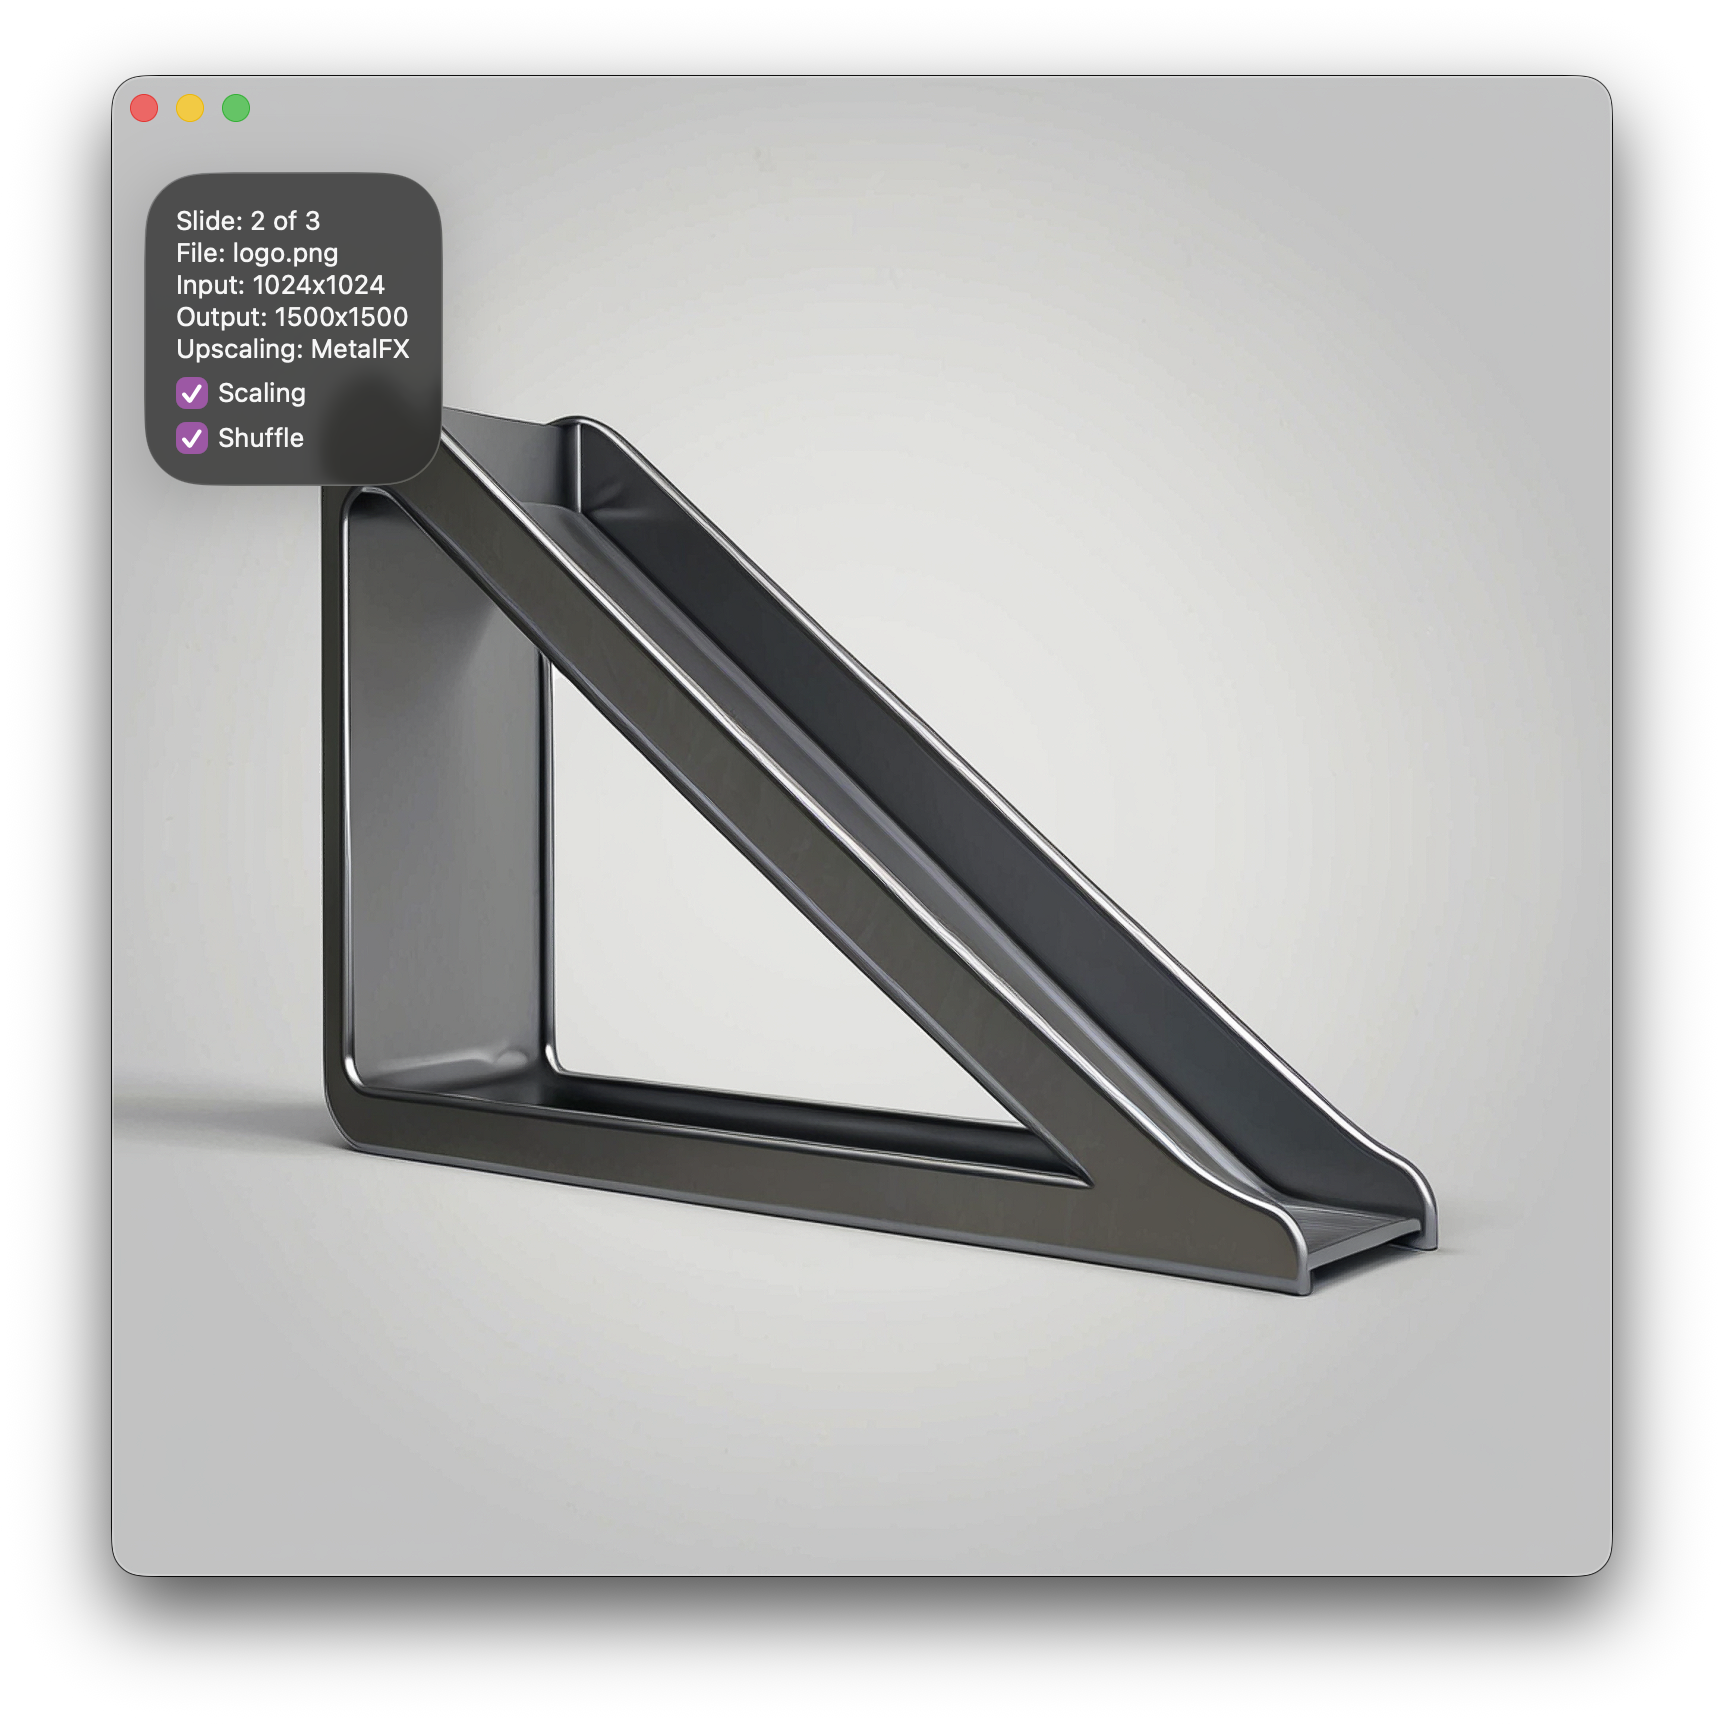
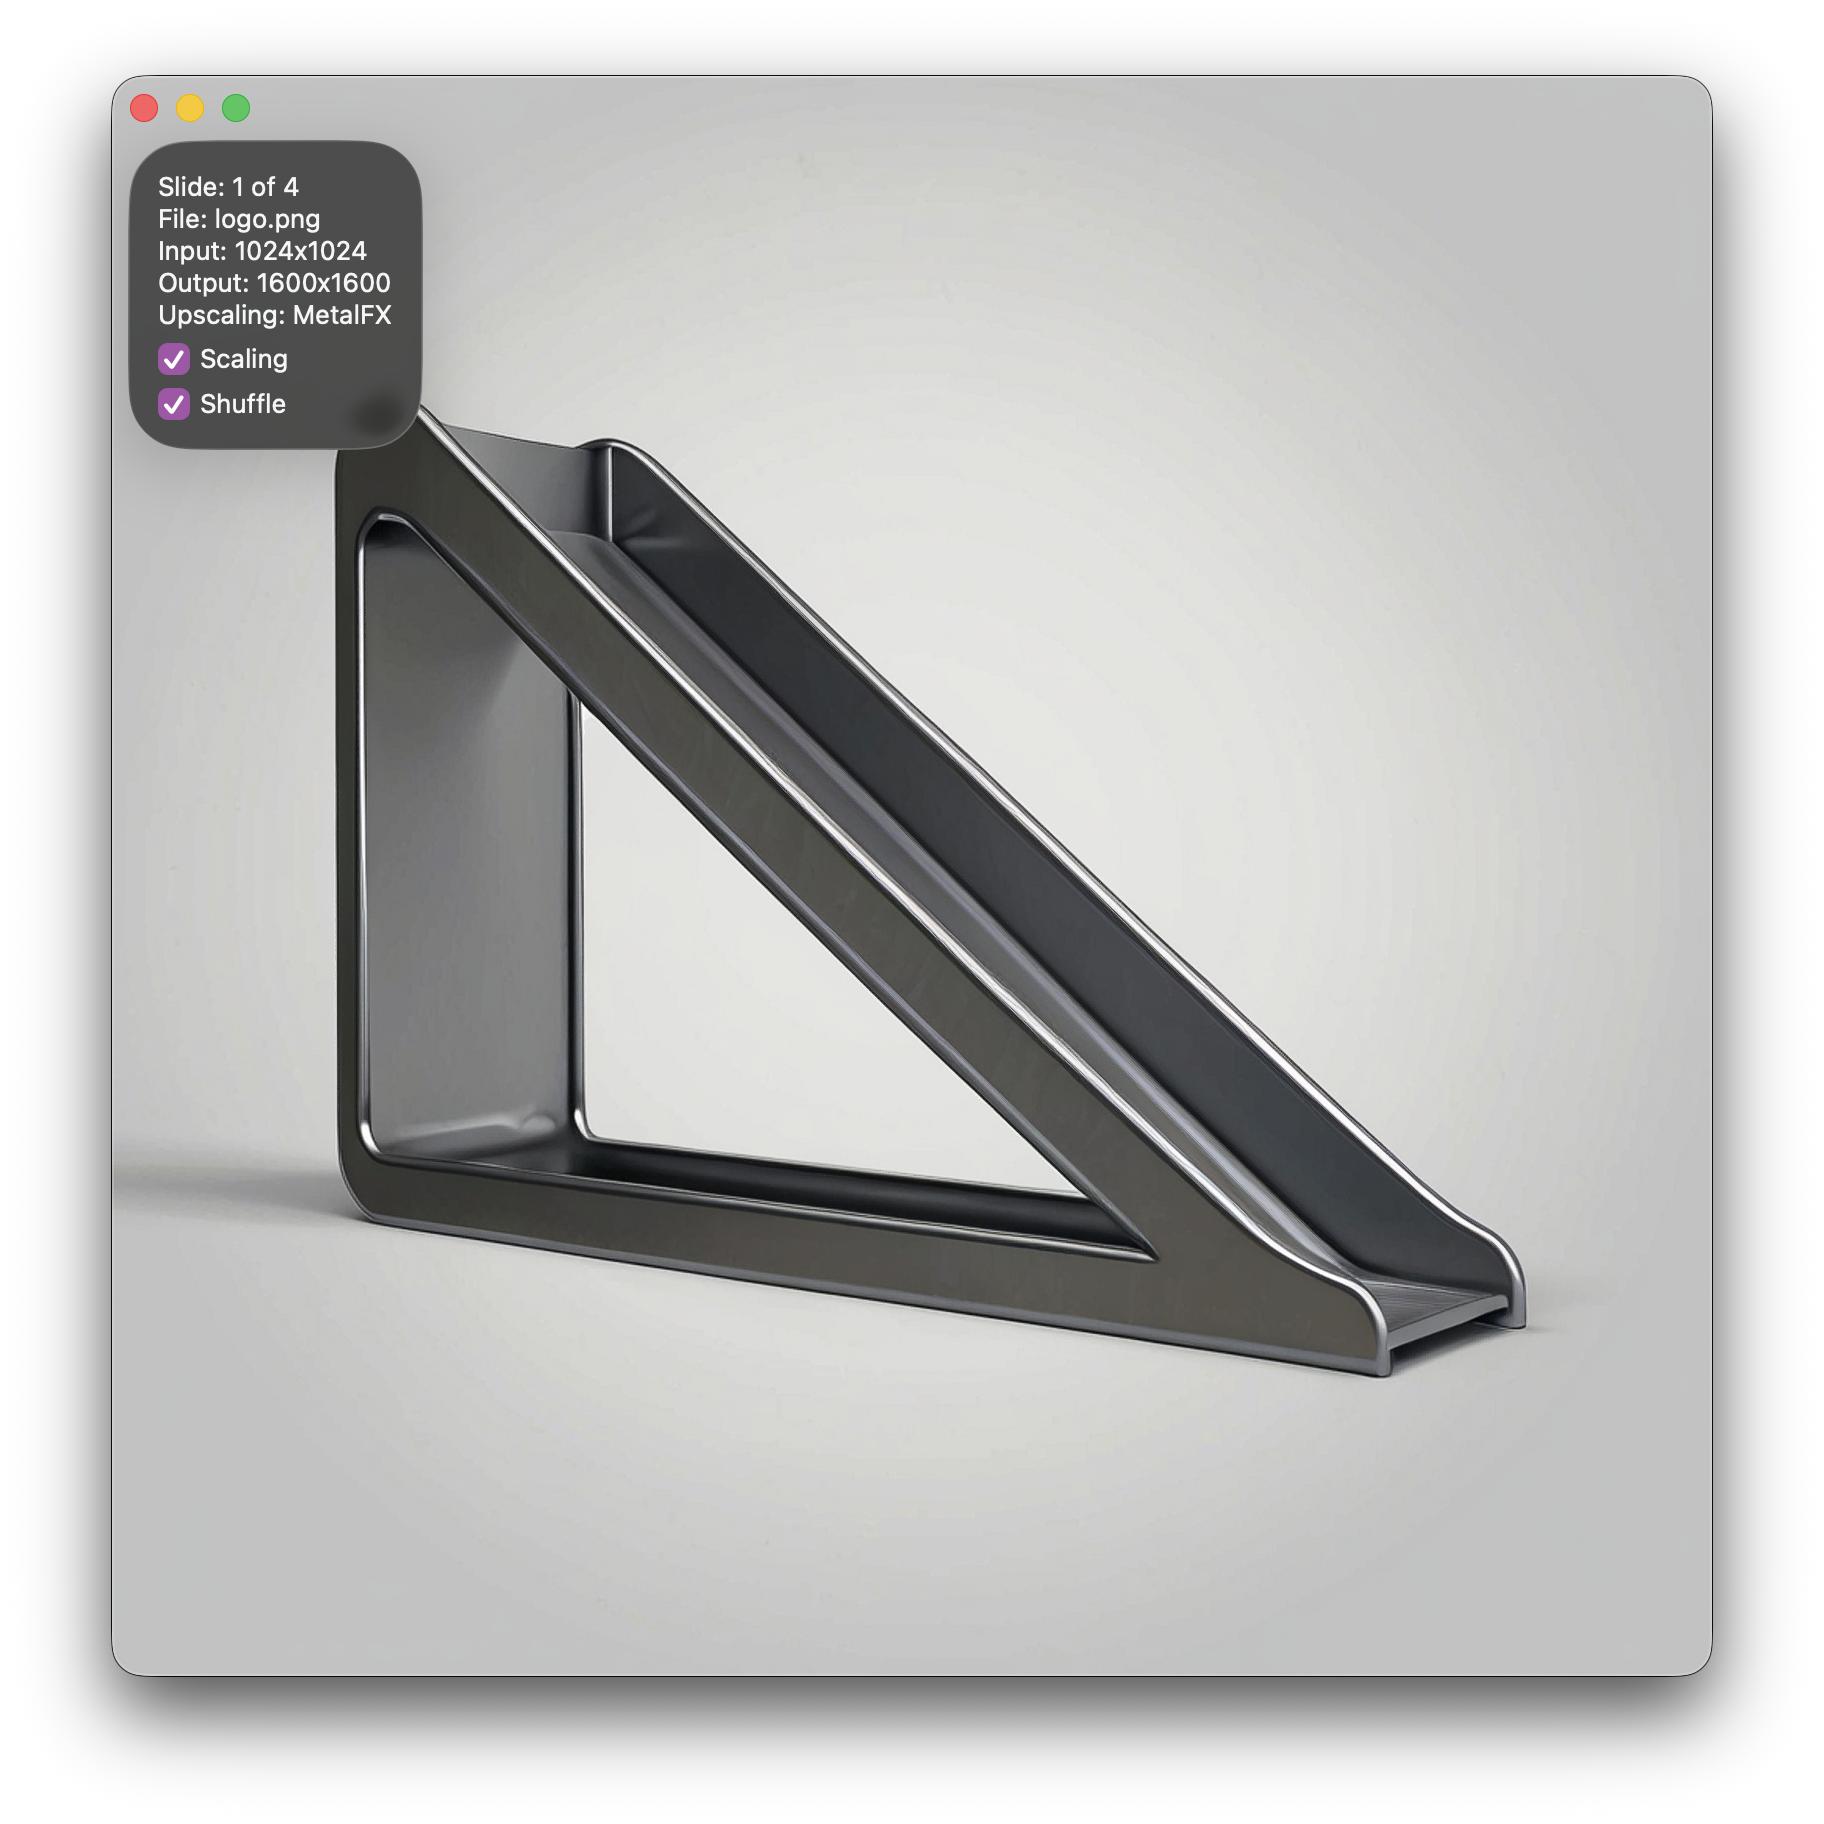
Update padding for info view.

diff --git a/metalslide.swift b/metalslide.swift
@@ -28,9 +28,9 @@ struct MetalView: View {
                     Toggle("Shuffle", isOn: $renderer.shuffleEnabled)
                         .onChange(of: renderer.shuffleEnabled) { renderer.toggleShuffle() }
                 }
-                .padding()
+                .padding(15)
                 .glassEffect(in: .rect(cornerRadius: 30))
-                .padding()
+                .padding(.leading, 8)
             }
         }
     }
